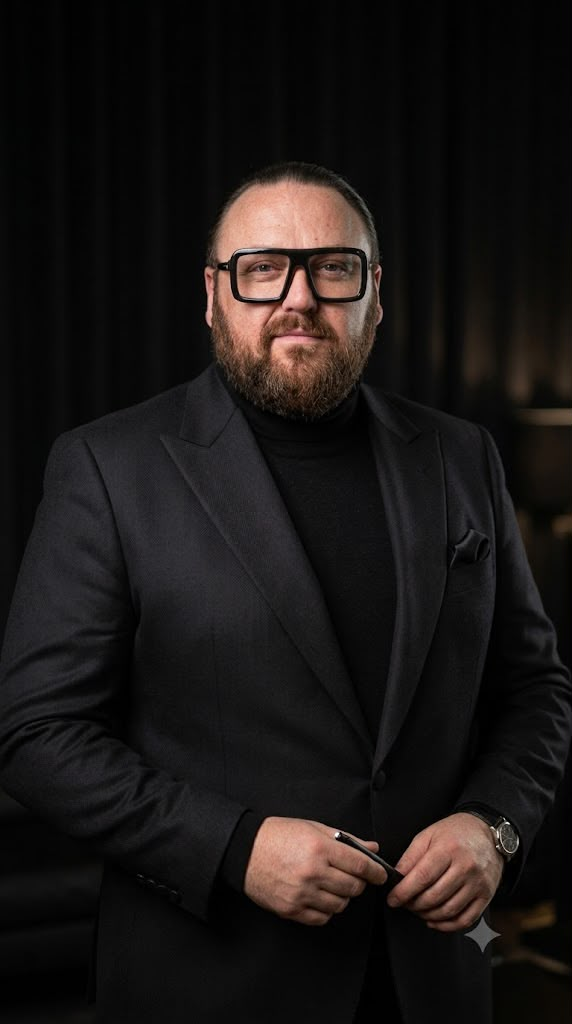
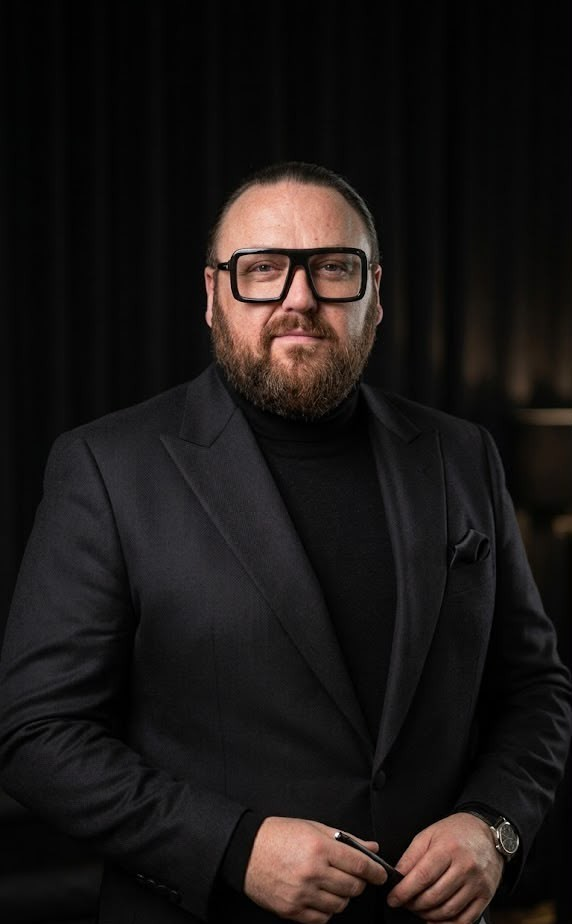
Update Hasan Altintas portrait frame and remove watermark

diff --git a/index.css b/index.css
@@ -4670,7 +4670,6 @@ textarea.form-control {
 }
 
 /* --- Featured Executive Leader Card (Hasan Altintas) & Team Grid --- */
-/* --- Featured Executive Leader Card (Hasan Altintas) & Team Grid --- */
 .team-leader-card {
   background: linear-gradient(145deg, #ffffff 0%, #fcf9f4 100%);
   border: 1.5px solid rgba(194, 120, 58, 0.28);
@@ -4678,7 +4677,7 @@ textarea.form-control {
   padding: 44px 52px;
   margin-bottom: 44px;
   display: grid;
-  grid-template-columns: 210px 1fr;
+  grid-template-columns: 190px 1fr;
   gap: 40px;
   align-items: center;
   box-shadow: 0 20px 50px rgba(12, 21, 38, 0.07), 0 4px 16px rgba(194, 120, 58, 0.08);
@@ -4705,25 +4704,26 @@ textarea.form-control {
 
 .team-leader-avatar {
   width: 190px;
-  height: 190px;
-  border-radius: 50%;
+  aspect-ratio: 572 / 924;
+  border-radius: 18px;
   overflow: hidden;
-  border: 4px solid #ffffff;
-  box-shadow: 0 0 0 3.5px var(--accent-gold), 0 12px 32px rgba(194, 120, 58, 0.25);
+  border: 3.5px solid #ffffff;
+  box-shadow: 0 0 0 3px var(--accent-gold), 0 12px 30px rgba(194, 120, 58, 0.22);
   margin: 0 auto;
   flex-shrink: 0;
+  background-color: #0c1526;
 }
 
 .team-leader-avatar img {
   width: 100%;
   height: 100%;
   object-fit: cover;
-  object-position: center 25%; /* Lowers image so Hasan Altintas's face is centered perfectly in circle */
+  object-position: center center;
   transition: transform 0.5s ease;
 }
 
 .team-leader-card:hover .team-leader-avatar img {
-  transform: scale(1.06);
+  transform: scale(1.04);
 }
 
 .team-leader-info {
@@ -4864,7 +4864,11 @@ textarea.form-control {
     grid-template-columns: 1fr;
     text-align: center;
     padding: 32px 24px;
-    gap: 20px;
+    gap: 24px;
+  }
+  .team-leader-avatar {
+    width: 100%;
+    max-width: 200px;
   }
   .team-leader-info {
     align-items: center;
